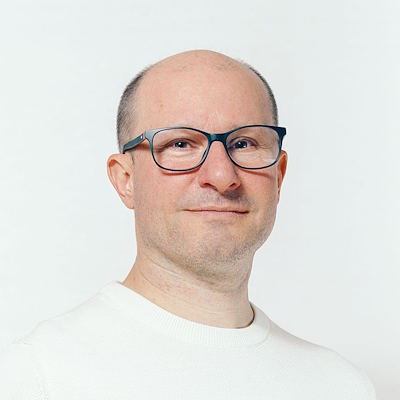
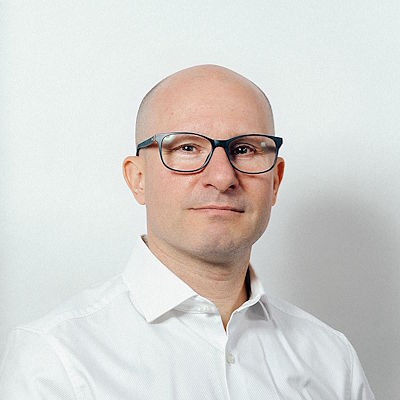
feat: redesign skills section with card layout, light font, responsive button

diff --git a/index.html b/index.html
@@ -32,6 +32,7 @@
 <link rel="apple-touch-icon-precomposed" sizes="114x114" href="img/icons/114x114.png">
 <link rel="apple-touch-icon-precomposed" sizes="72x72" href="img/icons/72x72.png">
 <link rel="apple-touch-icon-precomposed" href="img/icons/default.png">
+<!-- Only 700 loaded globally. Skills use a separate @font-face defined in theme-style.css -->
 <link href="https://fonts.googleapis.com/css?family=Open+Sans+Condensed:700" rel="stylesheet">
 
 
@@ -82,7 +83,10 @@
     <!-- About text & photo -->
     <div class="container">
       <div class="row">
-        <div class="col-sm-3 col-md-3 photo"> <img src="img/misc/profile.jpg" alt="My picture" class="img-responsive pull-center" /> </div>
+        <div class="col-sm-3 col-md-3 photo">
+          <img src="img/misc/profile.jpg" alt="My picture" class="img-responsive pull-center" />
+          <a href="download/KarstenHeldCV.pdf" class="btn btn-lg btn-primary-grad btn-download">Download CV <i class="fa fa-download"></i></a>
+        </div>
         <div class="col-sm-9 col-md-9 details">
           <div class="mscp-logo pull-right hidden-xs"><img src="img/misc/mscp-logo.png"/></div>
           <h2 class="primary-focus">Karsten Held</h2>
@@ -90,67 +94,44 @@
 			Certified Azure AI Engineer<br>SharePoint / M365 Specialist
 		  </h3>
           <p>
-A highly skilled and versatile AI consultant with over 20 years of experience in software development, SharePoint, Power Platform and M365 solutions. Currently leading the development of a market intelligence GenAI solution using Azure AI Foundry and SharePoint 
-frontend for Vattenfall. Proven track record of delivering solutions across diverse industries, including finance, telecommunications, and energy. With proficiency in solution architecture, full-stack development, and UX design. Adept at leading technical projects, providing 
-training, and offering third-level support, with certifications in Microsoft technologies. Fluency in German, English, and Hungarian.
+AI Engineer with 25+ years in software development and 3+ years shipping enterprise GenAI solutions at scale. Designed and shipped a market intelligence RAG platform achieving 90% factuality (vs 53% for Microsoft Copilot) at 1/3 the cost. Built enterprise search crawler pipelines rolled out to 5,000+ users, ingesting SharePoint content across multiple sites and domains. Full-stack sole-developer delivery: Python backends (Azure Functions, FastAPI), TypeScript/React frontends (SPFx), Azure AI infrastructure. Security hardening (Managed Identities, RBAC), automated evaluation, and production deployment. Fluent in German, English, and Hungarian.
 </p>
-          <a href="download/KarstenHeldCV.pdf" class="btn btn-lg btn-primary-grad">Download CV <i class="fa fa-download"></i></a>
-
         </div>
       </div>
-      <div class="row skills hidden-xs">
+      <div class="row skills">
         <div class="col-sm-4">
-          <div class="row">
-            <div class="col-sm-6 skillitem">SharePoint</div>
-            <div class="col-sm-6 skillbar"><div class="progress progress-skills"><div class="progress-bar progress-bar-skills " style="width:100%;">Expert</div></div></div>
-          </div>
-          <div class="row">
-            <div class="col-sm-6 skillitem">Azure AI Studio</div>
-            <div class="col-sm-6 skillbar"><div class="progress progress-skills"><div class="progress-bar progress-bar-skills" style="width:75%;">Professional</div></div></div>
-          </div>
-          <div class="row">
-            <div class="col-sm-6 skillitem">Copilot Studio</div>
-            <div class="col-sm-6 skillbar"><div class="progress progress-skills"><div class="progress-bar progress-bar-skills" style="width:75%;">Professional</div></div></div>
-          </div>
-          <div class="row">
-            <div class="col-sm-6 skillitem">VBA</div>
-            <div class="col-sm-6 skillbar"><div class="progress progress-skills"><div class="progress-bar progress-bar-skills" style="width:75%;">Professional</div></div></div>
-          </div>
-        </div>                        
-        <div class="col-sm-4">
-          <div class="row">
-            <div class="col-sm-6 skillitem">Power Apps</div>
-            <div class="col-sm-6 skillbar"><div class="progress progress-skills"><div class="progress-bar progress-bar-skills" style="width:100%;">Expert</div></div></div>
-          </div>
-          <div class="row">
-            <div class="col-sm-6 skillitem">Power Automate</div>
-            <div class="col-sm-6 skillbar"><div class="progress progress-skills"><div class="progress-bar progress-bar-skills" style="width:100%;">Expert</div></div></div>
-          </div>
-          <div class="row">
-            <div class="col-sm-6 skillitem">Azure Function Apps</div>
-            <div class="col-sm-6 skillbar"><div class="progress progress-skills"><div class="progress-bar progress-bar-skills" style="width:75%;">Professional</div></div></div>
-          </div>
-          <div class="row">
-            <div class="col-sm-6 skillitem">Azure Runbooks</div>
-            <div class="col-sm-6 skillbar"><div class="progress progress-skills"><div class="progress-bar progress-bar-skills" style="width:50%;">Basic</div></div></div>
+          <div class="skills-card">
+            <h4 class="skills-heading">Primary (daily use)</h4>
+            <ul class="skills-list">
+              <li>Python 3.12, FastAPI, Azure Functions</li>
+              <li>Azure OpenAI Service, Responses API, Vector Stores</li>
+              <li>Foundry IQ / Azure AI Search</li>
+              <li>RAG: chunking, retrieval, evaluation</li>
+              <li>TypeScript, React, Fluent UI, SPFx 1.23</li>
+              <li>Managed Identities, RBAC, MSAL.js</li>
+            </ul>
           </div>
         </div>
         <div class="col-sm-4">
-          <div class="row">
-            <div class="col-sm-6 skillitem">TypeScript</div>
-            <div class="col-sm-6 skillbar"><div class="progress progress-skills"><div class="progress-bar progress-bar-skills" style="width:75%;">Professional</div></div></div>
+          <div class="skills-card">
+            <h4 class="skills-heading">Secondary (strong background)</h4>
+            <ul class="skills-list">
+              <li>SharePoint REST API, PnP/SP, Microsoft Graph</li>
+              <li>Azure App Service, Key Vault, Microsoft Entra ID</li>
+              <li>Power Apps, Dataverse, Power Automate</li>
+              <li>C# / .NET, SQL, Entity Framework</li>
+              <li>HTML5, CSS3, SCSS Modules, Webpack</li>
+            </ul>
           </div>
-          <div class="row">
-            <div class="col-sm-6 skillitem">C#</div>
-            <div class="col-sm-6 skillbar"><div class="progress progress-skills"><div class="progress-bar progress-bar-skills" style="width:75%;">Professional</div></div></div>
-          </div>
-          <div class="row">
-            <div class="col-sm-6 skillitem">PowerShell / PnP</div>
-            <div class="col-sm-6 skillbar"><div class="progress progress-skills"><div class="progress-bar progress-bar-skills" style="width:75%;">Professional</div></div></div>
-          </div>
-          <div class="row">
-            <div class="col-sm-6 skillitem">Python</div>
-            <div class="col-sm-6 skillbar"><div class="progress progress-skills"><div class="progress-bar progress-bar-skills" style="width:75%;">Professional</div></div></div>
+        </div>
+        <div class="col-sm-4">
+          <div class="skills-card">
+            <h4 class="skills-heading">Tertiary (available)</h4>
+            <ul class="skills-list">
+              <li>Node.js, PowerShell, Azure CLI</li>
+              <li>Azure DevOps Pipelines, Git/GitHub</li>
+              <li>httpx, BeautifulSoup4, Playwright</li>
+            </ul>
           </div>
         </div>
       </div>
@@ -535,42 +516,32 @@ training, and offering third-level support, with certifications in Microsoft tec
     <div class="container">
       <h2>Services</h2>
       <div class="row">
-        <div class="col-sm-6 col-md-6 col-lg-6 service"> <i class="service-genai centered"></i>
-          <h3 class="bold">Copilots, GenAI / RAG Solutions</h3>
+        <div class="col-sm-6 col-md-6 col-lg-6 service"> <img src="img/services/microsoftfoundry.svg" class="service-icon centered" alt="Microsoft Foundry" />
+          <h3 class="bold">Microsoft Foundry (Azure AI Foundry)</h3>
           <p>
-			AI trainings and webinars. Implementation of Retrieval Augmented Generation solutions using Azure AI Studio and Copilot Studio. Model fine-tuning, evaluation, benchmarking.
-		  </p>
-        </div>	  
-
-	  <!--
-        <div class="col-sm-6 col-md-6 col-lg-6 service"> <i class="service-support centered"></i>
-          <h3 class="bold">M365 App &amp; 3rd Level Support</h3>
-          <p>
-			Maintenance of Microsoft 365 solutions: SharePoint, Power Apps, Power Automate, Copilot. System rollout, user communication, escalation management. Ticket analysis and reporting.
+			Automated evaluation pipelines, LLM-as-judge scoring, factuality/relevance/coherence metrics, prompt optimizations, evaluations, model comparison.
 		  </p>
         </div>
-	  -->
-        <div class="col-sm-6 col-md-6 col-lg-6 service"> <i class="service-sharepoint2 centered"></i>
-          <h3 class="bold">SharePoint Solutions</h3>
+        <div class="col-sm-6 col-md-6 col-lg-6 service"> <img src="img/services/genai.svg" class="service-icon centered" alt="Microsoft Copilot Ecosystem" />
+          <h3 class="bold">Microsoft Copilot Ecosystem</h3>
           <p>
-			Information architecture, solution design, document management systems, portals, Web Part development, integration with Azure Logic Apps and Power Automate.
-		</p>
+			Copilot extensibility, Copilot connectors, SharePoint Premium, custom RAG alternatives where Copilot falls short.
+		  </p>
         </div>
 	  </div>
 	  <div class="row">
-        <div class="col-sm-6 col-md-6 col-lg-6 service"> <i class="service-powerplatform centered"></i>
-          <h3 class="bold">Microsoft 365 App Development</h3>
+        <div class="col-sm-6 col-md-6 col-lg-6 service"> <img src="img/services/azure-ai-search.svg" class="service-icon centered" alt="Foundry IQ" />
+          <h3 class="bold">Foundry IQ (Azure AI Search)</h3>
           <p>
-			Business process automation, Power App development, extranet solutions with Power Pages, AI Builder, Microsoft Dataverse backends, Power Apps Component Framework, Custom Connectors.
+			Custom indexes, hybrid retrieval (keyword + vector), metadata enrichment, SharePoint connectors, Copilot Retrieval API integration.
 		  </p>
         </div>
-        <div class="col-sm-6 col-md-6 col-lg-6 service"> <i class="service-m365 centered"></i>
-          <h3 class="bold">Microsoft 365 Consulting</h3>
+        <div class="col-sm-6 col-md-6 col-lg-6 service"> <img src="img/services/sharepointlogo.svg" class="service-icon centered" alt="SharePoint Solutions" />
+          <h3 class="bold">SharePoint Solutions</h3>
           <p>
-			M365 governance, intranet solutions, migration projects, data loss prevention, retention policies, best practices, webinars, user training, 3rd level support.
+			Information Architecture, Solution Design, Custom Collaboration Sites, Document Management Systems, Portals, Web Part Development, Integration with Azure Logic Apps or Power Automate.
 		  </p>
         </div>
-		
       </div>
     </div>
   </section>
@@ -592,10 +563,16 @@ training, and offering third-level support, with certifications in Microsoft tec
           <ul>
             <li class="timeline-item right">
               <img src="img/timeline/2019-vattenfall.png" data-js="unveil-auto" data-src="img/timeline/2019-vattenfall.png" data-src-retina="img/timeline/2019-vattenfall@2x.png" class="timeline-item-photo img-bg-primary img-responsive" alt="timeline photo" />
+              <h4 class="timeline-item-date">OCT 2024 - MAR 2026</h4>
+              <h5 class="timeline-item-role">External Azure AI Engineer @ <a href="https://www.vattenfall.de/">Vattenfall</a>, Berlin</h5>
+              <p class="timeline-item-description">Enterprise Search SharePoint Connector (crawler pipeline, Azure AI Search, metadata enrichment). SharePoint GPT Extensions (RAG Chat, AI metadata extraction, 20+ Fluent UI components). Lookout GPT market intelligence platform (90% factuality, 4x token reduction). Sole developer.</p>
+              <a href="#work" id="btnShowVFProjects" class="btn btn-xs btn-primary-light btn-square">Go to project</a>
+            </li>
+            <li class="timeline-item left">
+              <img src="img/timeline/2019-vattenfall.png" data-js="unveil-auto" data-src="img/timeline/2019-vattenfall.png" data-src-retina="img/timeline/2019-vattenfall@2x.png" class="timeline-item-photo img-bg-primary img-responsive" alt="timeline photo" />
               <h4 class="timeline-item-date">APR 2021 - OCT 2024</h4>
               <h5 class="timeline-item-role">External SharePoint Developer @ <a href="https://www.vattenfall.de/">Vattenfall</a>, Berlin</h5>
               <p class="timeline-item-description">Development of SharePoint solutions (Web Parts and backend jobs), 3rd level support, SharePoint governance, Power App development.</p>
-              <a href="#work" id="btnShowVFProjects" class="btn btn-xs btn-primary-light btn-square">Go to project</a>
             </li>
             <li class="timeline-item left">
               <img src="img/timeline/2019-vattenfall.png" data-js="unveil-auto" data-src="img/timeline/2019-vattenfall.png" data-src-retina="img/timeline/2019-vattenfall@2x.png" class="timeline-item-photo img-bg-primary img-responsive" alt="timeline photo" />
@@ -829,7 +806,7 @@ training, and offering third-level support, with certifications in Microsoft tec
             <p>
               Karsten Held<br>
               Rothenburger Strasse 32<br>
-              D-10099 DRESDEN
+              D-01099 DRESDEN
             </p>
           </address>
         </div>

diff --git a/css/theme-style.css b/css/theme-style.css
@@ -3271,8 +3271,9 @@ h3.title-divider {
   background-color: #4078B0;
   color: #FDFDFD;
 }
-.about .photo img {
-  max-width: 140px;
+.about .photo img.img-responsive {
+  width: 100%;
+  max-width: 260px;
   display: inline-block;
   box-shadow: 0 0 0 6px #fff;
 }
@@ -3685,6 +3686,95 @@ h3.title-divider {
 .service-mobile {
   background-image: url('../img/services/mobiledev.svg');
   background-size: 100px 100px;
+}
+.service-icon {
+  display: block;
+  width: 100px;
+  height: 100px;
+}
+.service-icon.centered {
+  margin: 0 auto;
+}
+/* Open Sans Condensed Light - loaded under unique name to avoid affecting global font */
+@font-face {
+  font-family: 'OSC-Light';
+  font-style: normal;
+  font-weight: normal;
+  src: url(https://fonts.gstatic.com/s/opensanscondensed/v24/z7NFdQDnbTkabZAIOl9il_O6KJj73e7Ff1GhDuXMRw.woff2) format('woff2'),
+       url(https://fonts.gstatic.com/s/opensanscondensed/v24/z7NFdQDnbTkabZAIOl9il_O6KJj73e7Ff1GhDuXMQg.ttf) format('truetype');
+}
+.about .photo {
+  text-align: center;
+}
+.btn-download {
+  display: block;
+  width: 100%;
+  max-width: 260px;
+  margin: 15px auto 10px;
+  padding-left: 14px;
+  padding-right: 14px;
+  white-space: normal;
+  box-sizing: border-box;
+  text-align: center;
+}
+@media (max-width: 767px) {
+  .about .photo img.img-responsive {
+    max-width: 140px;
+  }
+  .btn-download {
+    display: block;
+    width: auto;
+    max-width: 200px;
+    margin-left: auto;
+    margin-right: auto;
+  }
+}
+.skills {
+  margin-top: 30px;
+  padding-top: 0;
+}
+.skills-card {
+  background: #F5F8FB;
+  border: 1px solid #D8DFE7;
+  border-radius: 8px;
+  padding: 20px;
+  margin-bottom: 15px;
+}
+.skills-heading {
+  color: #2E356A;
+  font-size: 16px;
+  font-weight: 700;
+  letter-spacing: 0.3px;
+  margin-bottom: 12px;
+  padding-bottom: 8px;
+  border-bottom: 2px solid #B0BEC5;
+  text-align: left;
+}
+.skills-list {
+  list-style: none;
+  padding: 0;
+  margin: 0;
+  text-align: left;
+}
+.skills-list li {
+  font-family: 'OSC-Light', 'Open Sans Condensed', sans-serif;
+  font-size: 16px;
+  font-weight: normal;
+  line-height: 1.5;
+  color: #333333;
+  padding: 3px 0;
+  padding-left: 12px;
+  position: relative;
+}
+.skills-list li::before {
+  content: "";
+  position: absolute;
+  left: 0;
+  top: 50%;
+  transform: translateY(-50%);
+  width: 4px;
+  height: 4px;
+  background: #A3BFE8;
 }
 @media (min-width: 768px) {
   .services {
